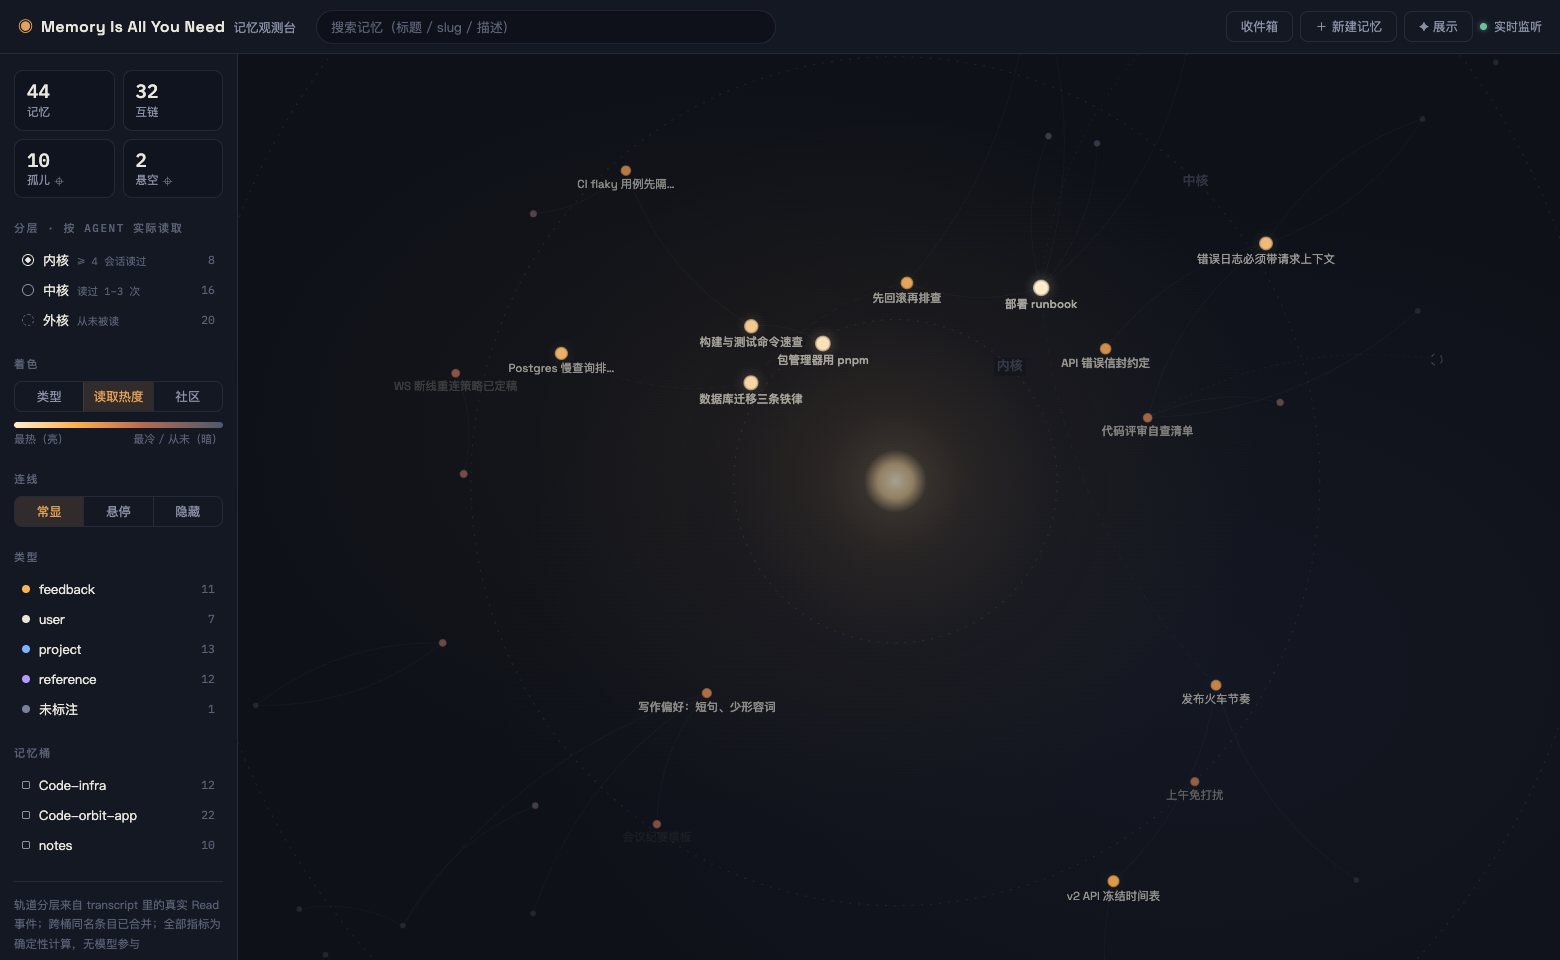
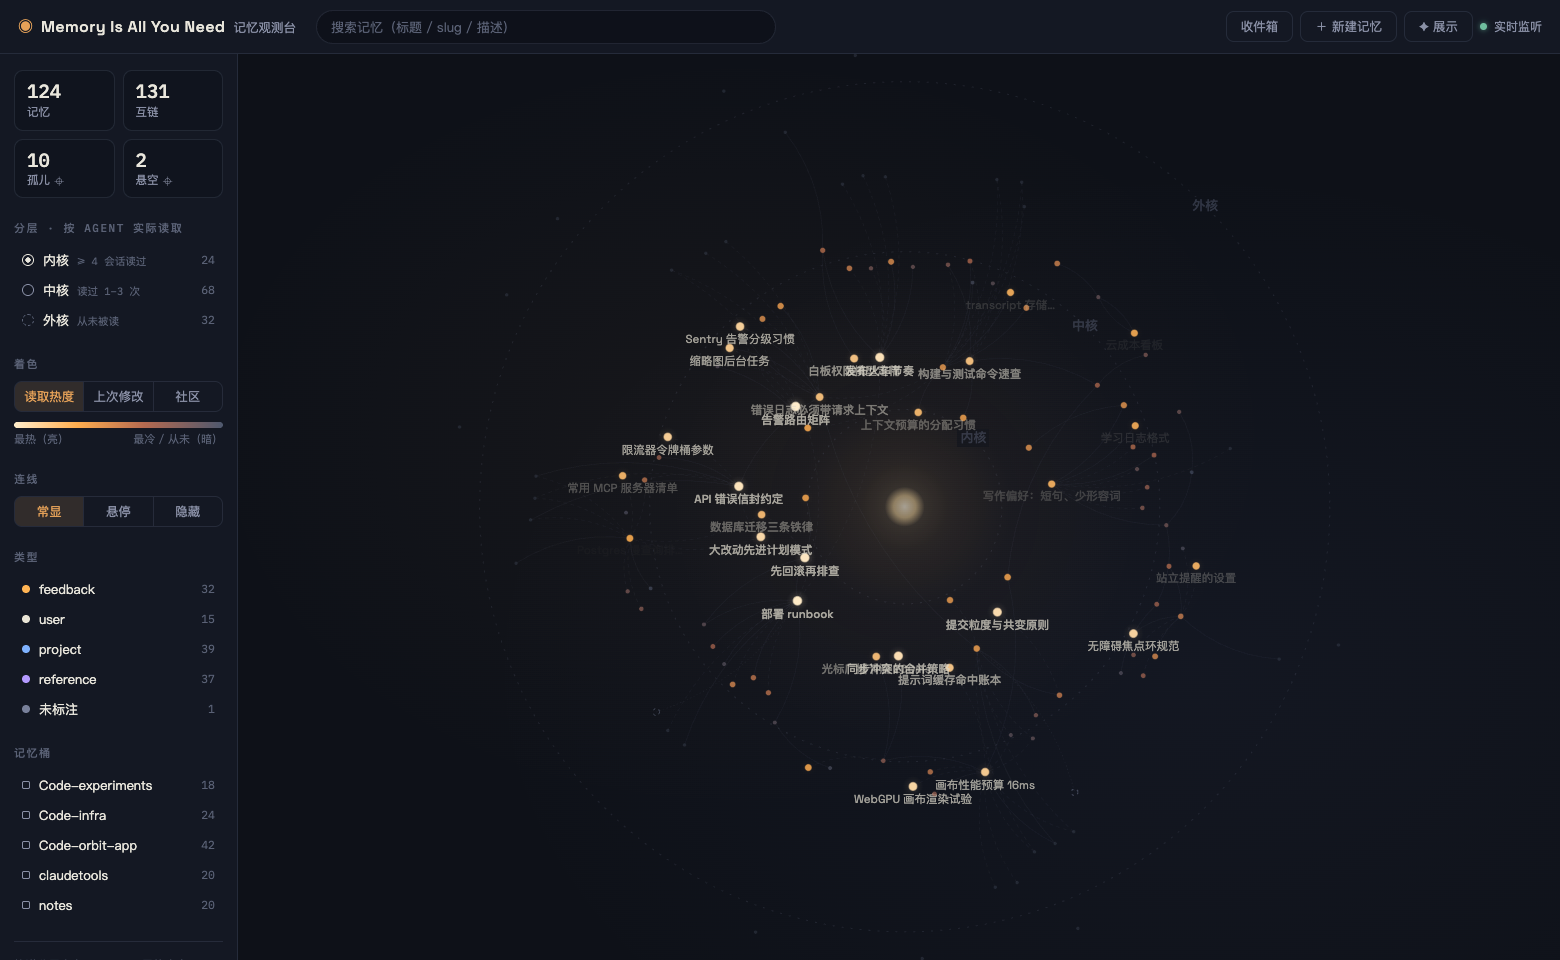
feat(graph): 默认读取热度 + 「上次修改」着色取代「类型」，README 换高密度演示截图
进入即读取热度视图；新增上次修改模式（月光蓝 ramp，按 mtime 排名，
与余烬渲染共用三通道机制）；类型仅保留为筛选维度不再参与着色。
截图换成 124 条假记忆的高密度星系（内核24/中核68/外核32，贴近真实分布）。

diff --git a/src/web/components/GraphCanvas.tsx b/src/web/components/GraphCanvas.tsx
@@ -2,9 +2,9 @@ import { useCallback, useEffect, useMemo, useRef, useState } from 'react'
 import ForceGraph2D, { type ForceGraphMethods } from 'react-force-graph-2d'
 import { forceCollide, forceRadial } from 'd3-force'
 import type { MemLink, MemNode } from '../../shared/types'
-import { NEVER_READ_COLOR, SHELL_LABEL, SHELL_RADIUS, TYPE_COLOR, communityColor, heatColor, withAlpha } from '../lib/palette'
+import { NEVER_READ_COLOR, SHELL_LABEL, SHELL_RADIUS, communityColor, heatColor, mtimeColor, withAlpha } from '../lib/palette'
 
-export type ColorMode = 'type' | 'freshness' | 'community'
+export type ColorMode = 'freshness' | 'mtime' | 'community'
 export type LinkMode = 'always' | 'focus' | 'hidden'
 
 /** 力导向引擎会在节点对象上挂 x/y 等坐标字段 */
@@ -110,6 +110,14 @@ export default function GraphCanvas({
     return map
   }, [nodes])
 
+  // 上次修改排名分位（0=刚改过 1=最陈旧）；每个文件都有 mtime，无"从未"档
+  const mtimeRank = useMemo(() => {
+    const all = nodes.filter((n) => !n.placeholder).sort((a, b) => b.mtime - a.mtime)
+    const map = new Map<string, number>()
+    all.forEach((n, i) => map.set(n.id, all.length > 1 ? i / (all.length - 1) : 0))
+    return map
+  }, [nodes])
+
   // 同心轨道力：内核/中核/外核各归其环
   useEffect(() => {
     const fg = fgRef.current
@@ -145,13 +153,11 @@ export default function GraphCanvas({
   const nodeColor = useCallback(
     (n: SimNode) => {
       if (n.placeholder) return '#525A6E'
-      if (colorMode === 'freshness') {
-        return n.lastRead > 0 ? heatColor(heatRank.get(n.id) ?? 1) : NEVER_READ_COLOR
-      }
       if (colorMode === 'community') return communityColor(n.community)
-      return TYPE_COLOR[n.type]
+      if (colorMode === 'mtime') return mtimeColor(mtimeRank.get(n.id) ?? 1)
+      return n.lastRead > 0 ? heatColor(heatRank.get(n.id) ?? 1) : NEVER_READ_COLOR
     },
-    [colorMode, heatRank],
+    [colorMode, heatRank, mtimeRank],
   )
 
   /** 帧前：过渡量推进 + 漂浮 + 恒星 + 轨道环 */
@@ -239,14 +245,18 @@ export default function GraphCanvas({
       const color = nodeColor(n)
       const dimmed = highlightSet !== null && !highlightSet.has(n.id)
       const active = n.id === hoverId || n.id === selectedId
-      // 热度模式的独立视觉语法（heat：1=最热 0=最冷 -1=从未读，null=非热度模式）：
-      // 尺寸/亮度/光晕三通道全由热度驱动，不再让互链数抢尺寸通道讲第二个故事
-      const heat =
-        colorMode === 'freshness' && !n.placeholder
+      // 新旧类模式的独立视觉语法（heat：1=最新 0=最旧 -1=从未读，null=社区模式）：
+      // 尺寸/亮度/光晕三通道全由新旧驱动，不再让互链数抢尺寸通道讲第二个故事。
+      // 读取热度按 lastRead 排名，上次修改按 mtime 排名，渲染机制共用
+      const heat = n.placeholder
+        ? null
+        : colorMode === 'freshness'
           ? n.lastRead > 0
             ? 1 - (heatRank.get(n.id) ?? 1)
             : -1
-          : null
+          : colorMode === 'mtime'
+            ? 1 - (mtimeRank.get(n.id) ?? 1)
+            : null
       const r = heat === null ? nodeR(n) : heat < 0 ? 1.5 : 1.7 + 2.4 * Math.pow(heat, 1.6)
 
       ctx.save()
@@ -341,7 +351,7 @@ export default function GraphCanvas({
       }
       ctx.restore()
     },
-    [nodeColor, highlightSet, hoverId, selectedId, colorMode, heatRank],
+    [nodeColor, highlightSet, hoverId, selectedId, colorMode, heatRank, mtimeRank],
   )
 
   return (

diff --git a/src/web/lib/palette.ts b/src/web/lib/palette.ts
@@ -60,12 +60,34 @@ function mix(c1: [number, number, number], c2: [number, number, number], t: numb
   return `#${toHex(lerp(c1[0], c2[0], t))}${toHex(lerp(c1[1], c2[1], t))}${toHex(lerp(c1[2], c2[2], t))}`
 }
 
+type Ramp = Array<[number, [number, number, number]]>
+
+function rampColor(stops: Ramp, t: number): string {
+  const x = Math.min(Math.max(t, 0), 1)
+  for (let i = 1; i < stops.length; i++) {
+    if (x <= stops[i][0]) {
+      const [t0, c0] = stops[i - 1]
+      const [t1, c1] = stops[i]
+      return mix(c0, c1, (x - t0) / (t1 - t0))
+    }
+  }
+  return mix(stops[stops.length - 1][1], stops[stops.length - 1][1], 0)
+}
+
 /** 余烬降温曲线：白炽 → 琥珀 → 余烬红 → 冷板岩。中段过红保饱和，避免琥珀直混板岩的浑浊卡其 */
-const HEAT_STOPS: Array<[number, [number, number, number]]> = [
+const HEAT_STOPS: Ramp = [
   [0, [255, 237, 204]],
   [0.3, [255, 174, 79]],
   [0.62, [181, 106, 80]],
   [1, [78, 88, 110]],
+]
+
+/** 月光降温曲线（上次修改模式）：刚改过的亮月白 → 青蓝 → 暗板岩，与余烬琥珀拉开 */
+const MTIME_STOPS: Ramp = [
+  [0, [244, 248, 255]],
+  [0.3, [156, 195, 255]],
+  [0.62, [94, 118, 168]],
+  [1, [58, 70, 94]],
 ]
 
 /** 从未被读的死记忆候选：比最冷还暗一档 */
@@ -73,15 +95,12 @@ export const NEVER_READ_COLOR = '#39404F'
 
 /** 读取热度色：t 为热度排名分位（0=最热 1=最冷）。用排名而非绝对天数——数据挤在近几天时仍有满量程对比 */
 export function heatColor(t: number): string {
-  const x = Math.min(Math.max(t, 0), 1)
-  for (let i = 1; i < HEAT_STOPS.length; i++) {
-    if (x <= HEAT_STOPS[i][0]) {
-      const [t0, c0] = HEAT_STOPS[i - 1]
-      const [t1, c1] = HEAT_STOPS[i]
-      return mix(c0, c1, (x - t0) / (t1 - t0))
-    }
-  }
-  return '#4E586E'
+  return rampColor(HEAT_STOPS, t)
+}
+
+/** 上次修改色：t 为修改新旧排名分位（0=刚改过 1=最陈旧） */
+export function mtimeColor(t: number): string {
+  return rampColor(MTIME_STOPS, t)
 }
 
 export function timeAgo(mtime: number, now = Date.now()): string {

diff --git a/src/web/components/Sidebar.tsx b/src/web/components/Sidebar.tsx
@@ -11,8 +11,8 @@ const SHELL_RULE_TEXT = [
   '从未被读',
 ]
 const MODES: { key: ColorMode; label: string }[] = [
-  { key: 'type', label: '类型' },
   { key: 'freshness', label: '读取热度' },
+  { key: 'mtime', label: '上次修改' },
   { key: 'community', label: '社区' },
 ]
 const LINK_MODES: { key: LinkMode; label: string }[] = [
@@ -117,12 +117,21 @@ export default function Sidebar(p: Props) {
             </button>
           ))}
         </div>
-        {p.colorMode === 'freshness' && (
+        {p.colorMode !== 'community' && (
           <div className="fresh-legend">
-            <span className="fresh-bar" />
+            <span className={p.colorMode === 'mtime' ? 'fresh-bar mtime' : 'fresh-bar'} />
             <div className="fresh-ends">
-              <span>最热（亮）</span>
-              <span>最冷 / 从未（暗）</span>
+              {p.colorMode === 'freshness' ? (
+                <>
+                  <span>最热（亮）</span>
+                  <span>最冷 / 从未（暗）</span>
+                </>
+              ) : (
+                <>
+                  <span>刚改过（亮）</span>
+                  <span>久未改（暗）</span>
+                </>
+              )}
             </div>
           </div>
         )}

diff --git a/src/web/App.tsx b/src/web/App.tsx
@@ -25,7 +25,7 @@ export default function App() {
   const [activeTypes, setActiveTypes] = useState<Set<MemType>>(new Set(ALL_TYPES))
   const [activeShells, setActiveShells] = useState<Set<Shell>>(new Set(ALL_SHELLS))
   const [lens, setLens] = useState<LensFilter>(null)
-  const [colorMode, setColorMode] = useState<ColorMode>('type')
+  const [colorMode, setColorMode] = useState<ColorMode>('freshness')
   const [linkMode, setLinkMode] = useState<LinkMode>('always')
   const [selectedId, setSelectedId] = useState<string | null>(null)
   const [focusRequest, setFocusRequest] = useState<{ id: string; token: number } | null>(null)

diff --git a/src/web/styles.css b/src/web/styles.css
@@ -414,6 +414,10 @@ a:focus-visible {
   background: linear-gradient(to right, #ffedcc, #ffae4f 30%, #b56a50 62%, #4e586e);
 }
 
+.fresh-bar.mtime {
+  background: linear-gradient(to right, #f4f8ff, #9cc3ff 30%, #5e76a8 62%, #3a465e);
+}
+
 .fresh-ends {
   display: flex;
   justify-content: space-between;

diff --git a/README.md b/README.md
@@ -32,7 +32,7 @@ Memory Is All You Need is an observatory built for this quadrant. It turns memor
 ## Four questions it answers
 
 **1. What does it actually remember?**
-Browsing memory used to mean opening files one by one in an editor. Now it's a force-directed star map plus a full-text drawer: search, filter, four coloring modes (type / read heat / community clusters) — the shape of hundreds of memories at a glance.
+Browsing memory used to mean opening files one by one in an editor. Now it's a force-directed star map plus a full-text drawer: search, filter, three coloring modes (read heat / last modified / community clusters) — the shape of hundreds of memories at a glance. Read heat is the default view: the map opens on the question that matters most.
 
 **2. How do the memories relate?**
 `[[wikilink]]`s are buried in file bodies where you can't see them. Now they're visible edges, Louvain auto-communities, and one-click lenses for orphan nodes and dangling references.

diff --git a/README.zh-CN.md b/README.zh-CN.md
@@ -32,7 +32,7 @@ Memory Is All You Need 就是给这一象限造的观测台：把记忆变成一
 ## 它回答四个问题
 
 **1. 它到底记了什么？**
-翻记忆要开编辑器一个个点文件。现在是一张力导向星图 + 全文抽屉：搜索、筛选、四种着色（类型 / 读取热度 / 社区聚类），一眼看全几百条记忆的形状。
+翻记忆要开编辑器一个个点文件。现在是一张力导向星图 + 全文抽屉：搜索、筛选、三种着色（读取热度 / 上次修改 / 社区聚类），一眼看全几百条记忆的形状。默认就停在读取热度——打开即是最要紧的那个问题。
 
 **2. 记忆之间是什么关系？**
 `[[wikilink]]` 埋在正文里根本看不见。现在是可见的边、Louvain 自动社区、孤儿节点和悬空引用一键透镜。
